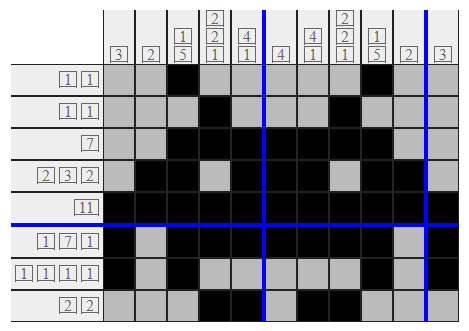
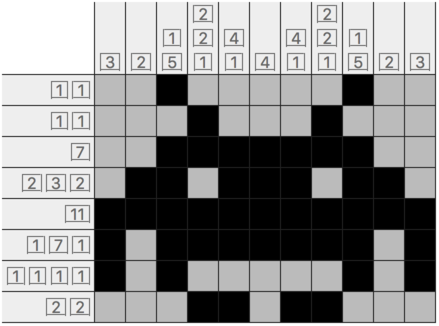
Update images and css

diff --git a/css/custom.css b/css/custom.css
@@ -1,30 +1,120 @@
-table.premadepuzzles	{border:5px solid #999944;padding:10px;}
-table.maintable			{border:5px solid #FF4477;padding:10px;}
-table.maintable.victory	{border-color:#447744;}
-td.topnums td			{width:30px;background:#EEEEEE;border-left:1px solid #222222;border-right:1px solid #222222;text-align:center;vertical-align:bottom;}
-td.sidenums td			{height:32px;background:#EEEEEE;border-top:1px solid #222222;border-bottom:1px solid #222222;text-align:right;vertical-align:middle;}
-td.sidenums td.line_t	{height:33px;}
-td.sidenums td.line_b	{height:33px;}
-td.maintds td			{border:1px solid #222222;}
-.maintable td.line_t	{border-top:2px solid blue;}
-.maintable td.line_b	{border-bottom:2px solid blue;}
-.maintable td.line_l	{border-left:2px solid blue;}
-.maintable td.line_r	{border-right:2px solid blue;}
-.maintable td.line_tl	{border-top:2px solid blue;border-left:2px solid blue;}
-.maintable td.line_tr	{border-top:2px solid blue;border-right:2px solid blue;}
-.maintable td.line_bl	{border-bottom:2px solid blue;border-left:2px solid blue;}
-.maintable td.line_br	{border-bottom:2px solid blue;border-right:2px solid blue;}
-.maintable td.line_tlr	{border-top:2px solid blue;border-left:2px solid blue;border-right:2px solid blue;}
-.maintable td.line_blr	{border-bottom:2px solid blue;border-left:2px solid blue;border-right:2px solid blue;}
-.maintable td.line_tbl	{border-top:2px solid blue;border-bottom:2px solid blue;border-left:2px solid blue;}
-.maintable td.line_tbr	{border-top:2px solid blue;border-bottom:2px solid blue;border-right:2px solid blue;}
+table.premadepuzzles {
+    border:5px solid #999944;
+    padding:10px;
+}
+/*table.maintable {
+    border:5px solid #FF4477;
+    padding:10px;
+}
+*/
+/*table.maintable.victory {
+    border-color:#447744;
+}
+*/
+ td.topnums td {
+    width:31px;
+    background:#EEEEEE;
+    border-left:1px solid #222222;
+    border-right:1px solid #222222;
+    text-align:center;
+    vertical-align:bottom;
+}
+ td.sidenums td {
+    height:31px;
+    background:#EEEEEE;
+    border-top:1px solid #222222;
+    border-bottom:1px solid #222222;
+    text-align:right;
+    vertical-align:middle;
+}
+ td.sidenums td.line_t {
+    height:31px;
+}
+ td.sidenums td.line_b {
+    height:31px;
+}
+ td.maintds td {
+    border:1px solid #222222;
+}
+/*.maintable td.line_t {
+    border-top:2px solid blue;
+}
+ .maintable td.line_b {
+    border-bottom:2px solid blue;
+}
+ .maintable td.line_l {
+    border-left:2px solid blue;
+}
+ .maintable td.line_r {
+    border-right:2px solid blue;
+}
+ .maintable td.line_tl {
+    border-top:2px solid blue;
+    border-left:2px solid blue;
+}
+ .maintable td.line_tr {
+    border-top:2px solid blue;
+    border-right:2px solid blue;
+}
+ .maintable td.line_bl {
+    border-bottom:2px solid blue;
+    border-left:2px solid blue;
+}
+ .maintable td.line_br {
+    border-bottom:2px solid blue;
+    border-right:2px solid blue;
+}
+ .maintable td.line_tlr {
+    border-top:2px solid blue;
+    border-left:2px solid blue;
+    border-right:2px solid blue;
+}
+ .maintable td.line_blr {
+    border-bottom:2px solid blue;
+    border-left:2px solid blue;
+    border-right:2px solid blue;
+}
+ .maintable td.line_tbl {
+    border-top:2px solid blue;
+    border-bottom:2px solid blue;
+    border-left:2px solid blue;
+}
+ .maintable td.line_tbr {
+    border-top:2px solid blue;
+    border-bottom:2px solid blue;
+    border-right:2px solid blue;
+}
+*/
 /* TODO maybe: make those simpler. */
-td.maintds div		{width:30px;height:30px;}
-td.maintds div.unk	{background:white;}
-td.maintds div.yes	{background:black;}
-td.maintds div.no	{background:#BBBBBB;}
-
-.strike		{cursor:crosshair;border-right:1px solid #666666;border-left:1px solid #666666;color:#666666;text-decoration:overline underline;}
-.nostrike	{cursor:crosshair;border-right:1px solid #EEEEEE;border-left:1px solid #EEEEEE;}
-.hidden		{display:none;}
-.nothidden	{display:inline;}
+ td.maintds div {
+    width:30px;
+    height:30px;
+}
+ td.maintds div.unk {
+    background:white;
+}
+ td.maintds div.yes {
+    background:black;
+}
+ td.maintds div.no {
+    background:#BBBBBB;
+}
+ .strike {
+    cursor:crosshair;
+    border-right:1px solid #666666;
+    border-left:1px solid #666666;
+    color:#666666;
+    text-decoration:overline underline;
+}
+ .nostrike {
+    cursor:crosshair;
+    border-right:1px solid #EEEEEE;
+    border-left:1px solid #EEEEEE;
+}
+ .hidden {
+    display:none;
+}
+ .nothidden {
+    display:inline;
+}
+ 

diff --git a/html/level.html b/html/level.html
@@ -21,7 +21,7 @@
       <div class="collapse navbar-collapse" id="navbarCollapse">
         <ul class="navbar-nav mr-auto">
           <li class="nav-item">
-            <a class="nav-link scroll" href="../index.html">Play </a>
+            <a class="nav-link scroll" href="../index.html">Jouer </a>
           </li>
           <li class="nav-item">
             <a class="nav-link scroll" href="../index.html">Règles </a>
@@ -68,7 +68,9 @@
         </table>
         <br><br>
         <div id="victorydiv" style="display:none">
-          <h1><font color="#888800">Bravo ! </font></h1>
+          <h3 class="alert alert-success" role="alert">
+            Bravo ! 
+          </h3>
           <p>Cliquez sur le bouton suivant pour accéder aux résultats de ce niveau.</p>
           <p>Ceci aura pour effet d'ouvrir un nouvel onglet, assurez-vous d'avoir cliqué sur ce bouton avant 
             <br />d'accéder au niveau suivant sinon il vous faudra tout recommencer !

diff --git a/html/resultats/fmdaboville/personnalite.html b/html/resultats/fmdaboville/personnalite.html
@@ -23,7 +23,7 @@
       <div class="collapse navbar-collapse" id="navbarCollapse">
         <ul class="navbar-nav mr-auto">
           <li class="nav-item">
-            <a class="nav-link scroll" href="../../../index.html">Play </a>
+            <a class="nav-link scroll" href="../../../index.html">Jouer </a>
           </li>
           <li class="nav-item">
             <a class="nav-link scroll" href="../../../index.html">Règles </a>
@@ -47,7 +47,7 @@
 
     <div class="jumbotron">
       <div class="text-center">
-        <img src="img/personnalite.png" class="img-fluid" />
+        <img src="img/personnalite.png" />
         <br /><br />
       </div>
       <blockquote class="blockquote text-center">

diff --git a/html/resultats/jpoublan/personnalite.html b/html/resultats/jpoublan/personnalite.html
@@ -23,7 +23,7 @@
       <div class="collapse navbar-collapse" id="navbarCollapse">
         <ul class="navbar-nav mr-auto">
           <li class="nav-item">
-            <a class="nav-link scroll" href="../../../index.html">Play </a>
+            <a class="nav-link scroll" href="../../../index.html">Jouer </a>
           </li>
           <li class="nav-item">
             <a class="nav-link scroll" href="../../../index.html">Règles </a>
@@ -47,7 +47,7 @@
 
     <div class="jumbotron">
       <div class="text-center">
-        <img src="img/personnalite.png" class="img-fluid" />
+        <img src="img/personnalite.png" />
         <br /><br />
       </div>
       <blockquote class="blockquote text-center">

diff --git a/html/resultats/fmdaboville/competences.html b/html/resultats/fmdaboville/competences.html
@@ -23,7 +23,7 @@
       <div class="collapse navbar-collapse" id="navbarCollapse">
         <ul class="navbar-nav mr-auto">
           <li class="nav-item">
-            <a class="nav-link scroll" href="../../../index.html">Play </a>
+            <a class="nav-link scroll" href="../../../index.html">Jouer </a>
           </li>
           <li class="nav-item">
             <a class="nav-link scroll" href="../../../index.html">Règles </a>
@@ -47,7 +47,7 @@
 
     <div class="jumbotron">
       <div class="text-center">
-        <img src="img/competences.png" class="img-fluid" />
+        <img src="img/competences.png" />
         <br /><br />
       </div>
       <blockquote class="blockquote text-center">

diff --git a/html/resultats/jpoublan/competences.html b/html/resultats/jpoublan/competences.html
@@ -23,7 +23,7 @@
       <div class="collapse navbar-collapse" id="navbarCollapse">
         <ul class="navbar-nav mr-auto">
           <li class="nav-item">
-            <a class="nav-link scroll" href="../../../index.html">Play </a>
+            <a class="nav-link scroll" href="../../../index.html">Jouer </a>
           </li>
           <li class="nav-item">
             <a class="nav-link scroll" href="../../../index.html">Règles </a>
@@ -47,7 +47,7 @@
 
     <div class="jumbotron">
       <div class="text-center">
-        <img src="img/competences.png" class="img-fluid" />
+        <img src="img/competences.png" />
         <br /><br />
       </div>
       <blockquote class="blockquote text-center">

diff --git a/html/resultats/fmdaboville/itineraire.html b/html/resultats/fmdaboville/itineraire.html
@@ -23,7 +23,7 @@
       <div class="collapse navbar-collapse" id="navbarCollapse">
         <ul class="navbar-nav mr-auto">
           <li class="nav-item">
-            <a class="nav-link scroll" href="../../../index.html">Play </a>
+            <a class="nav-link scroll" href="../../../index.html">Jouer </a>
           </li>
           <li class="nav-item">
             <a class="nav-link scroll" href="../../../index.html">Règles </a>
@@ -47,7 +47,7 @@
 
     <div class="jumbotron">
       <div class="text-center">
-        <img src="img/itineraire.png" class="img-fluid" />
+        <img src="img/itineraire.png" />
         <br /><br />
       </div>
       <blockquote class="blockquote text-center">

diff --git a/html/resultats/jpoublan/itineraire.html b/html/resultats/jpoublan/itineraire.html
@@ -23,7 +23,7 @@
       <div class="collapse navbar-collapse" id="navbarCollapse">
         <ul class="navbar-nav mr-auto">
           <li class="nav-item">
-            <a class="nav-link scroll" href="../../../index.html">Play </a>
+            <a class="nav-link scroll" href="../../../index.html">Jouer </a>
           </li>
           <li class="nav-item">
             <a class="nav-link scroll" href="../../../index.html">Règles </a>
@@ -47,7 +47,7 @@
 
     <div class="jumbotron">
       <div class="text-center">
-        <img src="img/itineraire.png" class="img-fluid" />
+        <img src="img/itineraire.png" />
         <br /><br />
       </div>
       <blockquote class="blockquote text-center">

diff --git a/html/resultats/fmdaboville/formation.html b/html/resultats/fmdaboville/formation.html
@@ -23,7 +23,7 @@
       <div class="collapse navbar-collapse" id="navbarCollapse">
         <ul class="navbar-nav mr-auto">
           <li class="nav-item">
-            <a class="nav-link scroll" href="../../../index.html">Play </a>
+            <a class="nav-link scroll" href="../../../index.html">Jouer </a>
           </li>
           <li class="nav-item">
             <a class="nav-link scroll" href="../../../index.html">Règles </a>
@@ -47,7 +47,7 @@
 
     <div class="jumbotron">
       <div class="text-center">
-        <img src="img/formation.png" class="img-fluid" />
+        <img src="img/formation.png" />
         <br /><br />
       </div>
       <blockquote class="blockquote text-center">

diff --git a/html/resultats/jpoublan/formation.html b/html/resultats/jpoublan/formation.html
@@ -23,7 +23,7 @@
       <div class="collapse navbar-collapse" id="navbarCollapse">
         <ul class="navbar-nav mr-auto">
           <li class="nav-item">
-            <a class="nav-link scroll" href="../../../index.html">Play </a>
+            <a class="nav-link scroll" href="../../../index.html">Jouer </a>
           </li>
           <li class="nav-item">
             <a class="nav-link scroll" href="../../../index.html">Règles </a>
@@ -47,7 +47,7 @@
 
     <div class="jumbotron">
       <div class="text-center">
-        <img src="img/formation.png" class="img-fluid" />
+        <img src="img/formation.png" />
         <br /><br />
       </div>
       <blockquote class="blockquote text-center">

diff --git a/html/resultats/fmdaboville/attentes.html b/html/resultats/fmdaboville/attentes.html
@@ -23,7 +23,7 @@
       <div class="collapse navbar-collapse" id="navbarCollapse">
         <ul class="navbar-nav mr-auto">
           <li class="nav-item">
-            <a class="nav-link scroll" href="../../../index.html">Play </a>
+            <a class="nav-link scroll" href="../../../index.html">Jouer </a>
           </li>
           <li class="nav-item">
             <a class="nav-link scroll" href="../../../index.html">Règles </a>
@@ -47,7 +47,7 @@
 
     <div class="jumbotron">
       <div class="text-center">
-        <img src="img/attentes.png" class="img-fluid" />
+        <img src="img/attentes.png" />
         <br /><br />
       </div>
       <blockquote class="blockquote text-center">

diff --git a/html/resultats/fmdaboville/interets.html b/html/resultats/fmdaboville/interets.html
@@ -23,7 +23,7 @@
       <div class="collapse navbar-collapse" id="navbarCollapse">
         <ul class="navbar-nav mr-auto">
           <li class="nav-item">
-            <a class="nav-link scroll" href="../../../index.html">Play </a>
+            <a class="nav-link scroll" href="../../../index.html">Jouer </a>
           </li>
           <li class="nav-item">
             <a class="nav-link scroll" href="../../../index.html">Règles </a>
@@ -47,7 +47,7 @@
 
     <div class="jumbotron">
       <div class="text-center">
-        <img src="img/interets.png" class="img-fluid" />
+        <img src="img/interets.png" />
         <br /><br />
       </div>
       <blockquote class="blockquote text-center">
